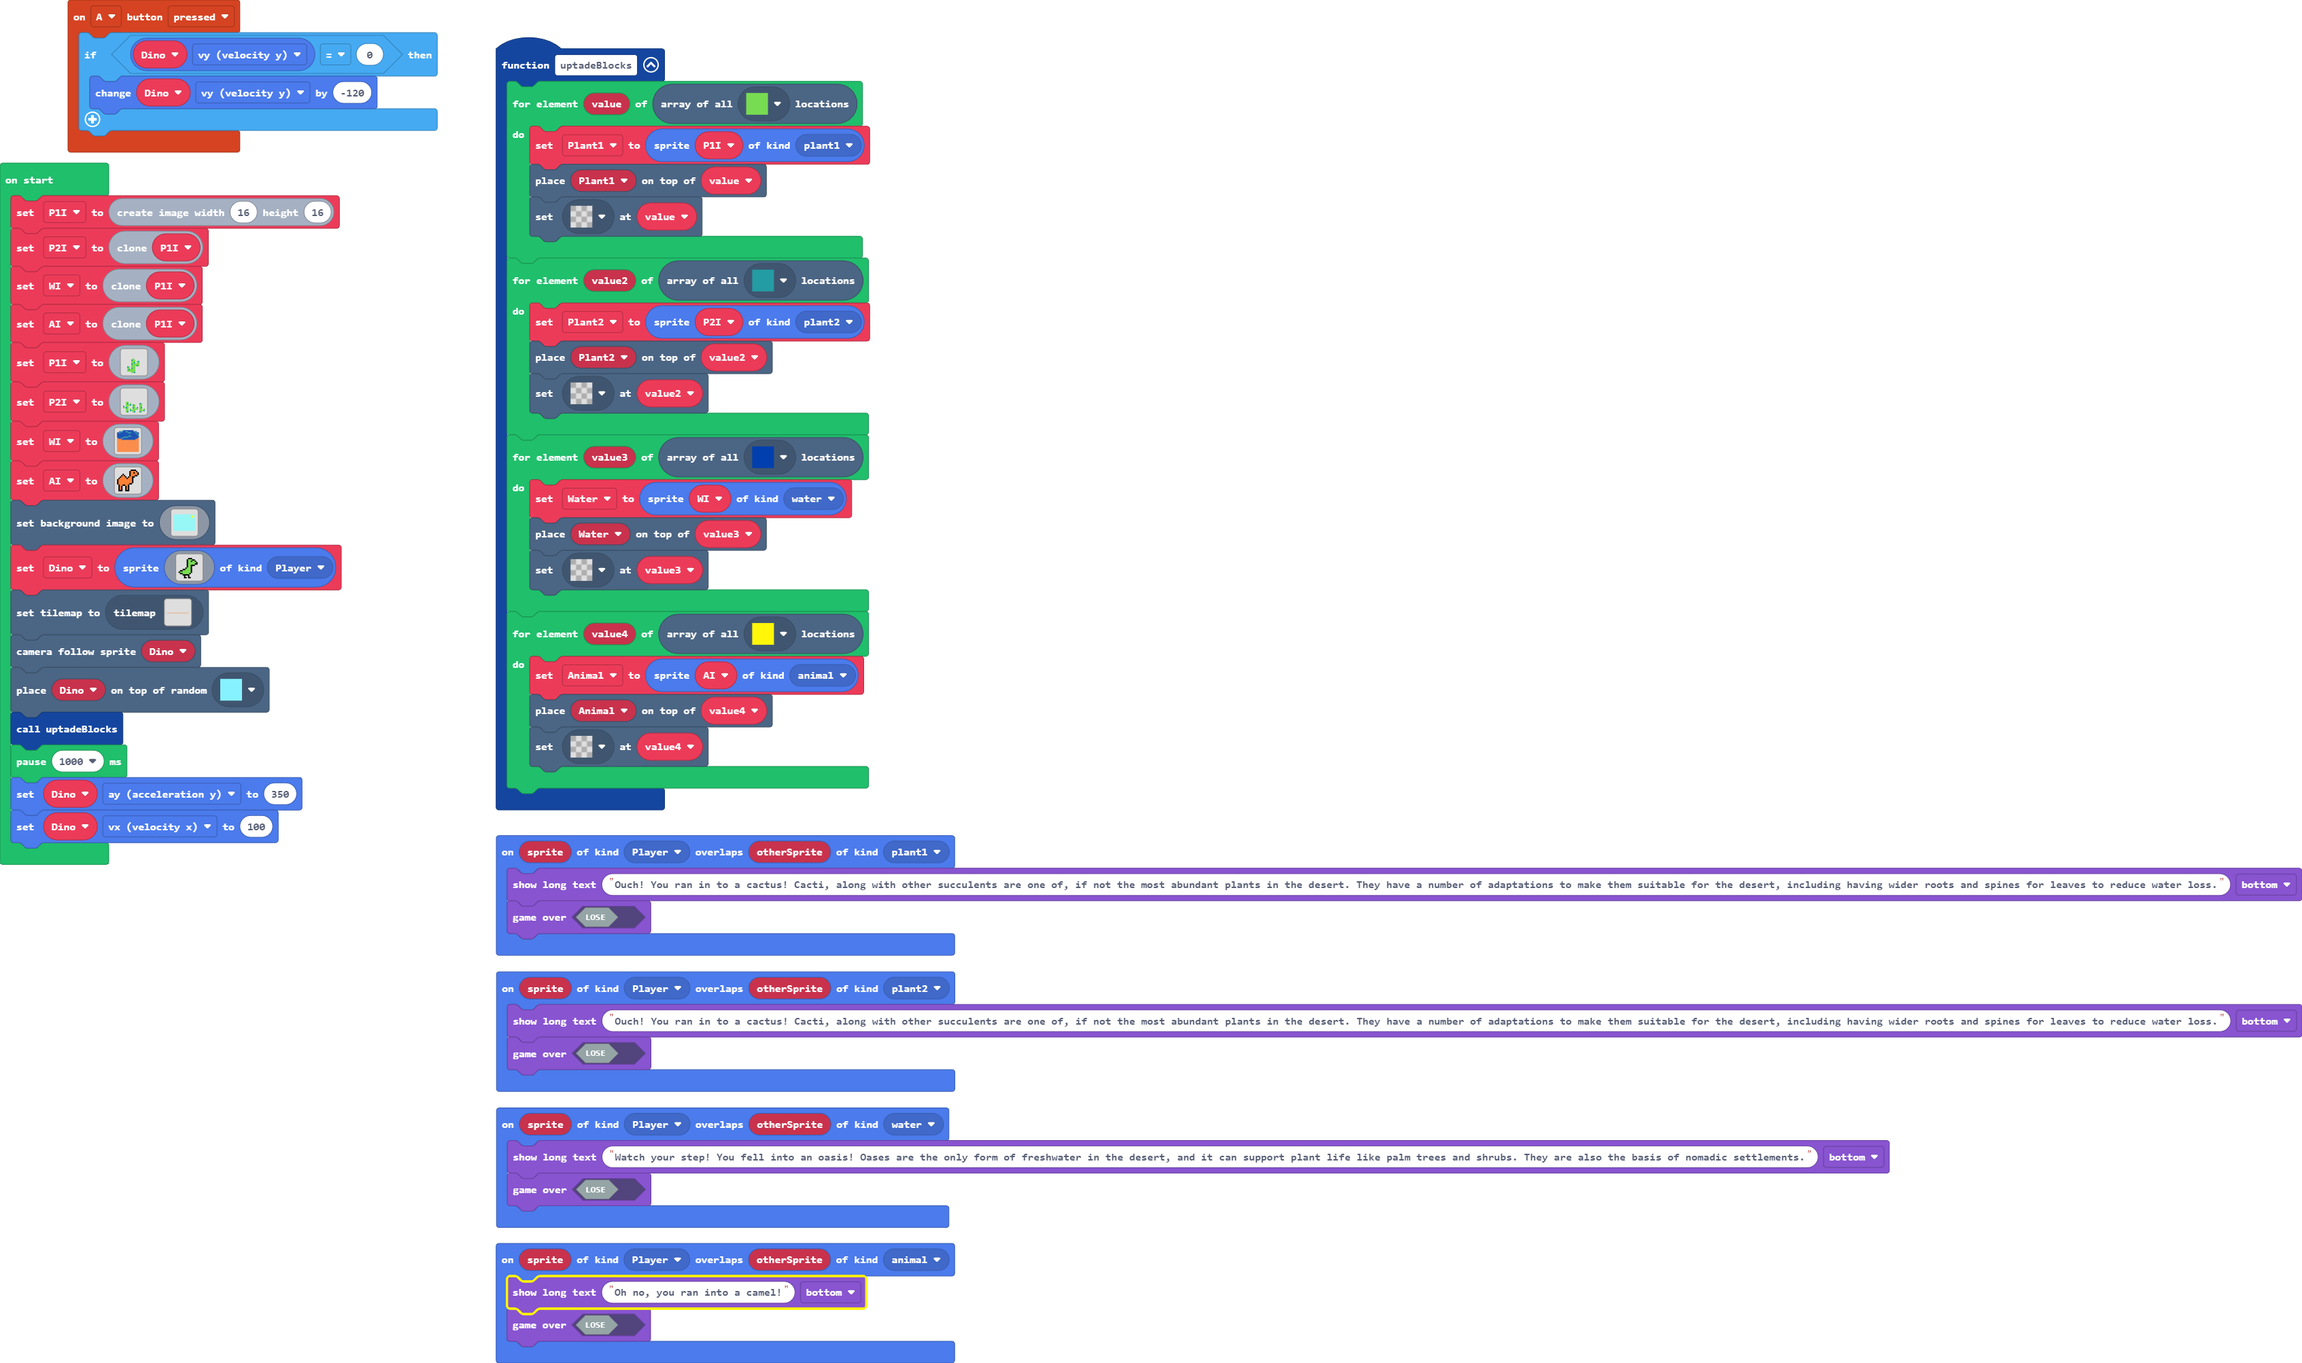
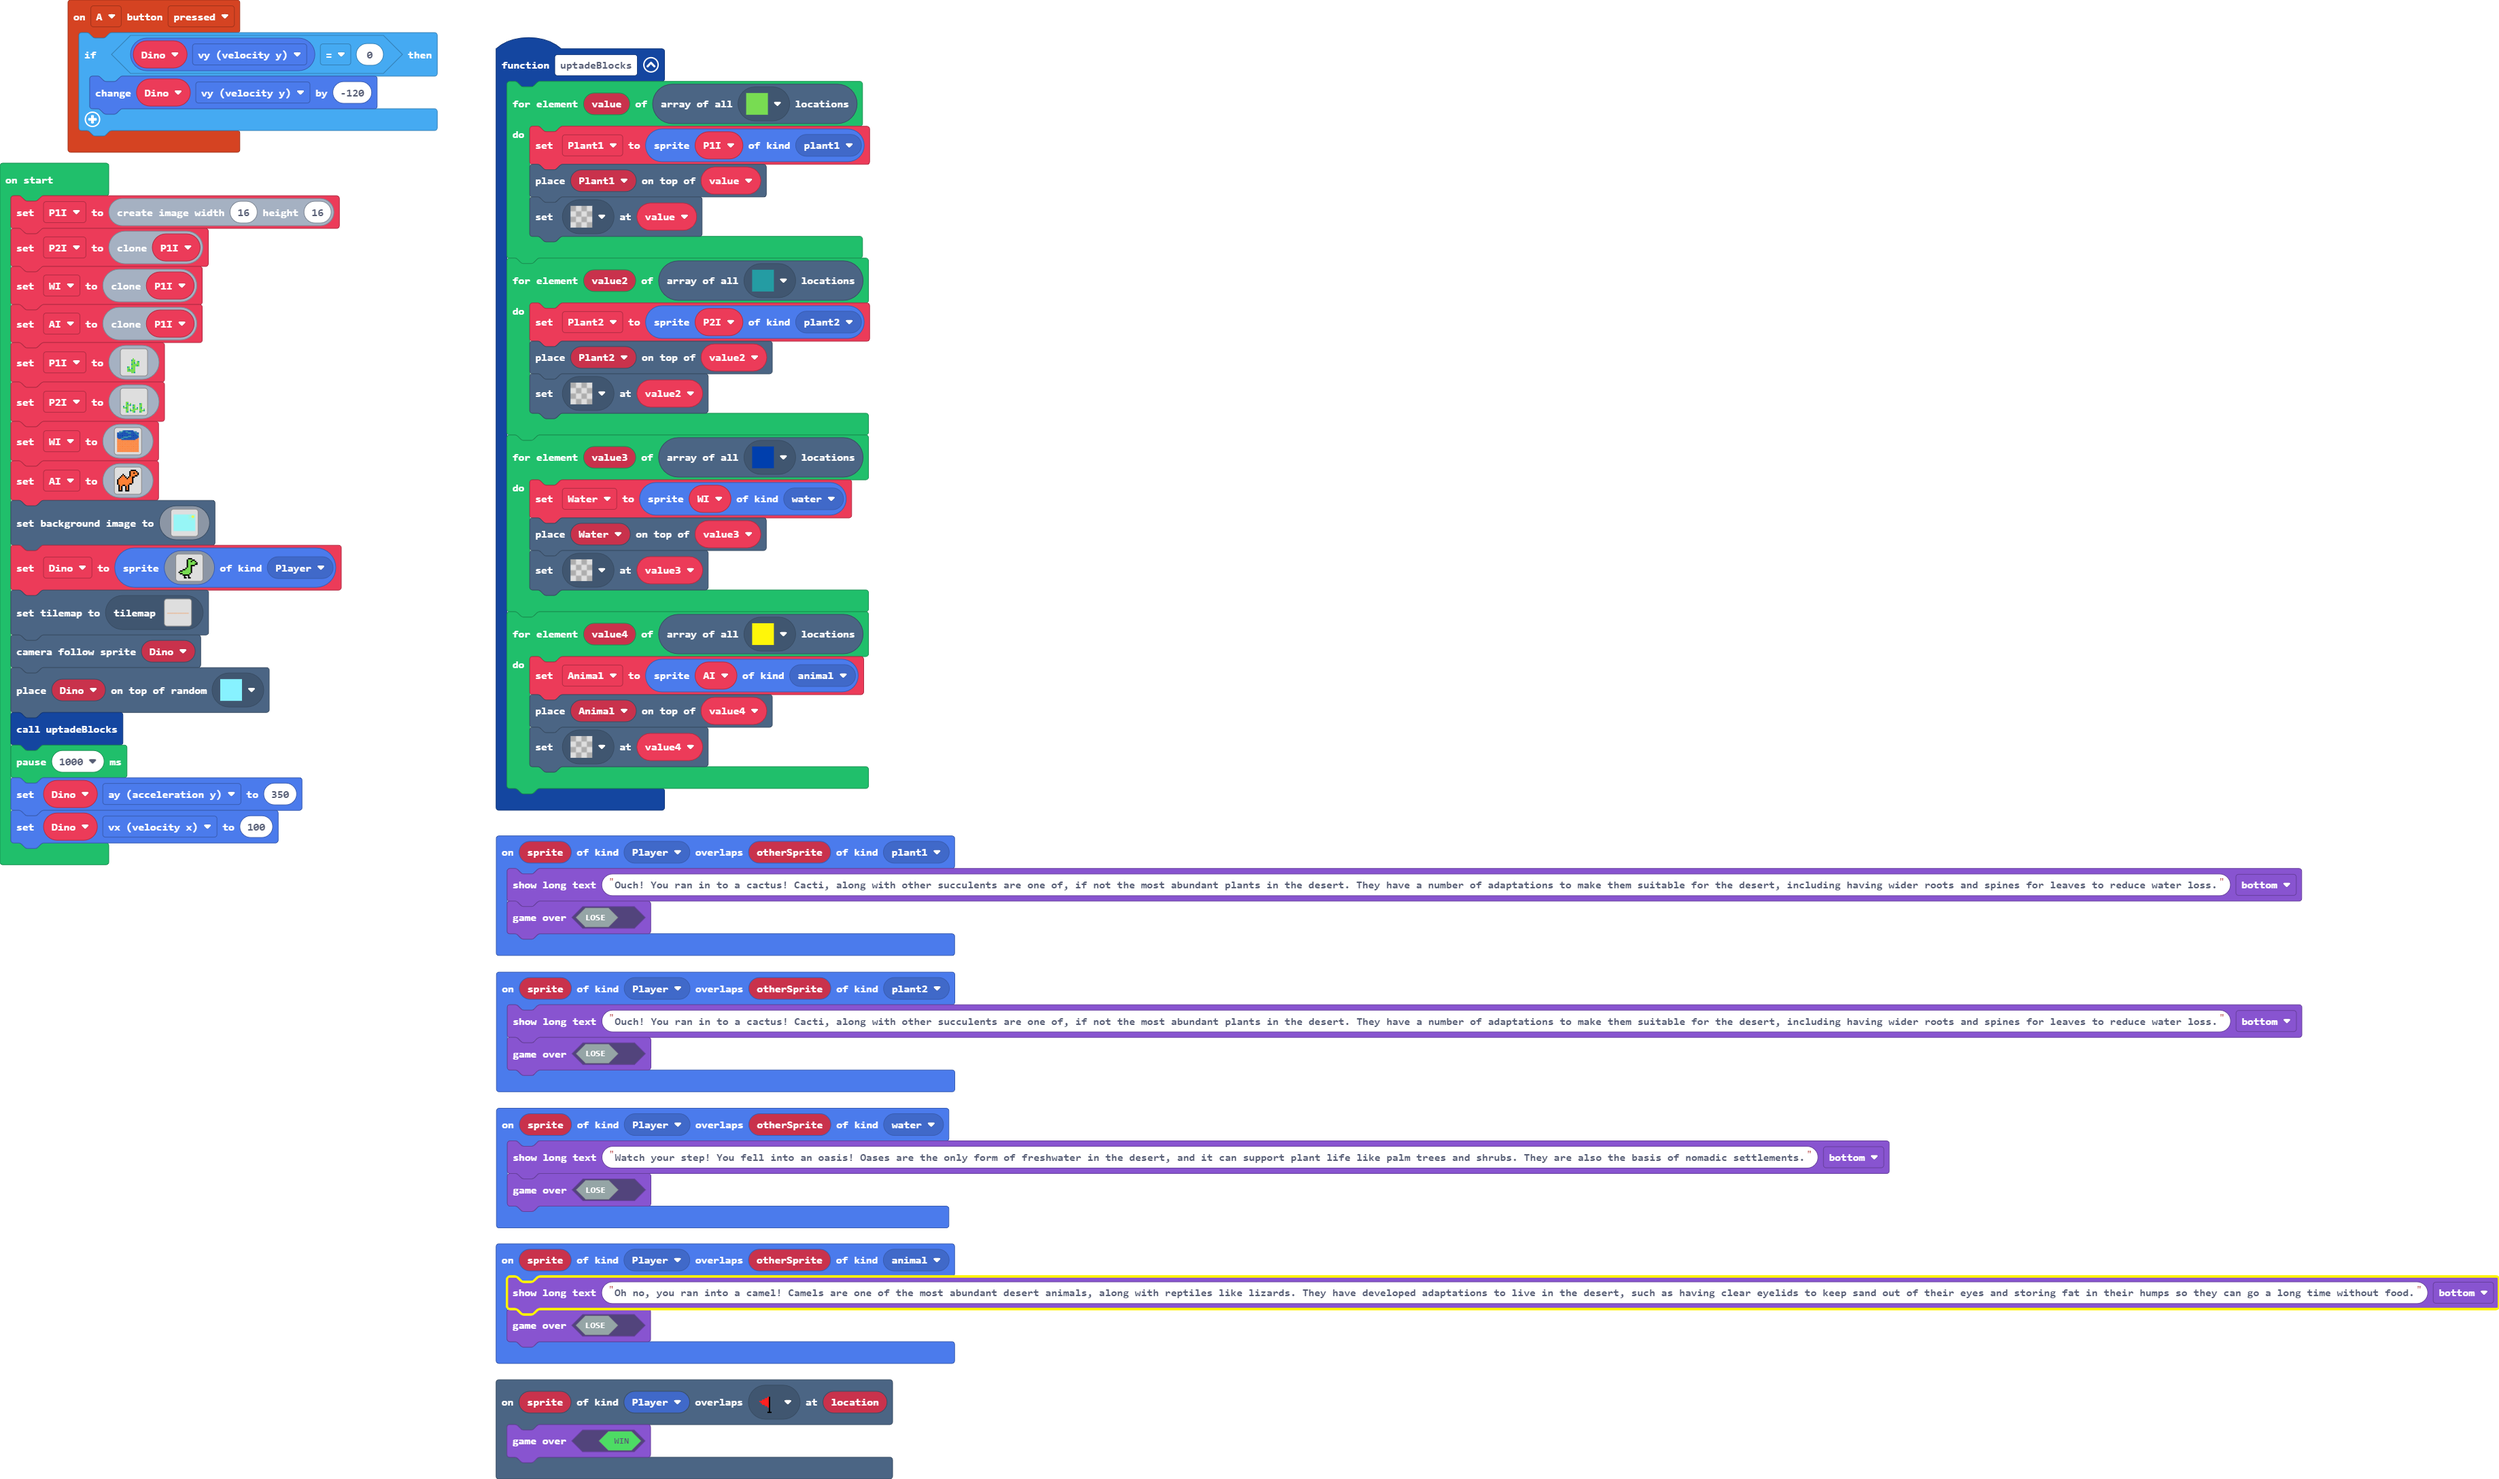
Update main.blocks, main.ts

Changed region(s): [[0.0, 0.0, 1.0, 1.0]]

diff --git a/main.ts b/main.ts
@@ -43,8 +43,11 @@ sprites.onOverlap(SpriteKind.Player, SpriteKind.water, function (sprite, otherSp
     game.showLongText("Watch your step! You fell into an oasis! Oases are the only form of freshwater in the desert, and it can support plant life like palm trees and shrubs. They are also the basis of nomadic settlements.", DialogLayout.Bottom)
     game.gameOver(false)
 })
+scene.onOverlapTile(SpriteKind.Player, assets.tile`myTile5`, function (sprite, location) {
+    game.gameOver(true)
+})
 sprites.onOverlap(SpriteKind.Player, SpriteKind.animal, function (sprite, otherSprite) {
-    game.showLongText("Oh no, you ran into a camel!", DialogLayout.Bottom)
+    game.showLongText("Oh no, you ran into a camel! Camels are one of the most abundant desert animals, along with reptiles like lizards. They have developed adaptations to live in the desert, such as having clear eyelids to keep sand out of their eyes and storing fat in their humps so they can go a long time without food.", DialogLayout.Bottom)
     game.gameOver(false)
 })
 let Animal: Sprite = null
